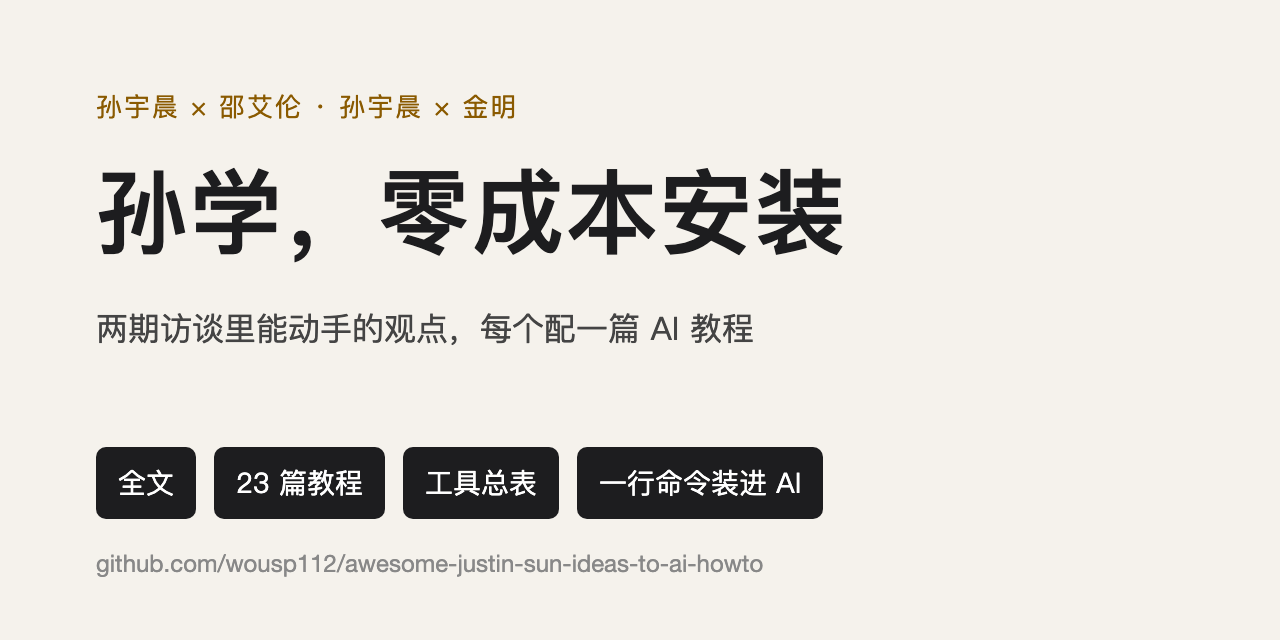
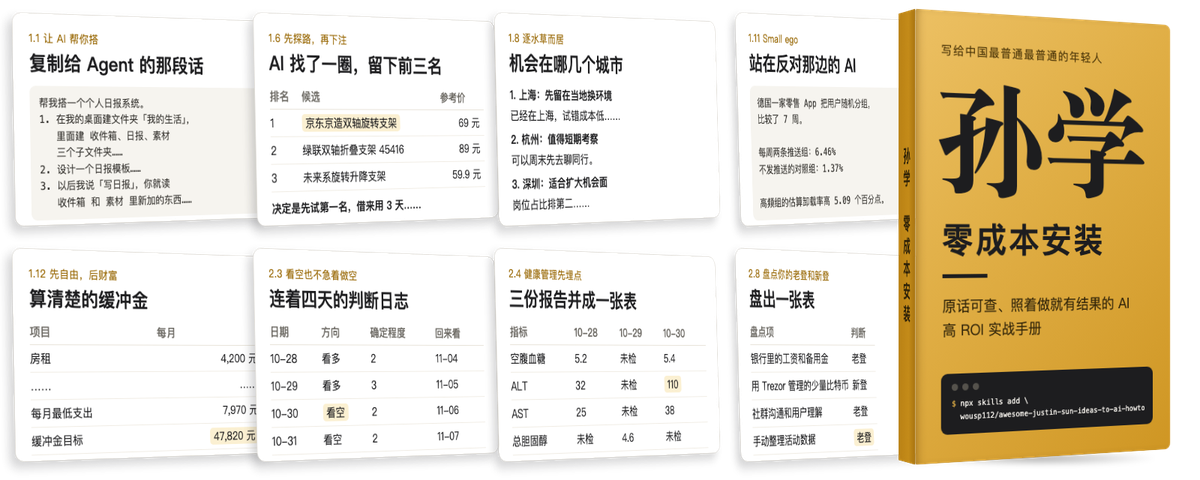
首页、章封面和思维导图换图，主题改成孙学本身
- 头图换成透明底：左边是教程里的真实结果，右边是书的封面，加深色版
- 书名换回打字标题，浅色和深色各一个金色，按钮同色并重新居中
- 两张效果图加深色版，第一张加上随手记原文
- 三张章封面换成清晰的大号章号
- 首页、前言、思维导图和给 AI 的说明开头先讲孙学，两期访谈是原话出处
- 思维导图中心改成孙学，重新出图并加深色版
- 图上不再写教程篇数，修英文版按钮切字

diff --git a/README.md b/README.md
@@ -1,11 +1,11 @@
 <p align="center">
   <a href="前言.md">
-    <img src="assets/cover.png" width="600" alt="孙学，零成本安装"></a>
+    <picture><source media="(prefers-color-scheme: dark)" srcset="assets/cover_dark.png"><img src="assets/cover.png" width="600" alt="孙学，零成本安装"></picture></a>
 </p>
 
-<h1 align="center">孙学，零成本安装</h1>
-
 <p align="center">
+  <picture><source media="(prefers-color-scheme: dark)" srcset="https://readme-typing-svg.demolab.com?font=Noto+Sans+SC&weight=500&size=26&duration=3500&pause=2000&color=E0AE45&center=true&vCenter=true&random=false&width=380&height=60&lines=%E5%AD%99%E5%AD%A6%EF%BC%8C%E9%9B%B6%E6%88%90%E6%9C%AC%E5%AE%89%E8%A3%85"><img src="https://readme-typing-svg.demolab.com?font=Noto+Sans+SC&weight=500&size=26&duration=3500&pause=2000&color=B07A10&center=true&vCenter=true&random=false&width=380&height=60&lines=%E5%AD%99%E5%AD%A6%EF%BC%8C%E9%9B%B6%E6%88%90%E6%9C%AC%E5%AE%89%E8%A3%85" alt="孙学，零成本安装" /></picture>
+  </br>
   原话可查、照着做就有结果的 AI 高 ROI 实战手册
 </p>
 
@@ -17,8 +17,8 @@
 </p>
 
 <p align="center">
-  <a href="邵艾伦/guides/01-生活AI化.md"><img src="assets/demo1.png" width="395" alt="生活 AI 化示例"></a>
-  <a href="邵艾伦/guides/04-百分之百相信AI.md"><img src="assets/demo2.png" width="395" alt="多模型对比示例"></a>
+  <a href="邵艾伦/guides/01-生活AI化.md"><picture><source media="(prefers-color-scheme: dark)" srcset="assets/demo1_dark.png"><img src="assets/demo1.png" width="395" alt="生活 AI 化示例"></picture></a>
+  <a href="邵艾伦/guides/04-百分之百相信AI.md"><picture><source media="(prefers-color-scheme: dark)" srcset="assets/demo2_dark.png"><img src="assets/demo2.png" width="395" alt="多模型对比示例"></picture></a>
 </p>
 
 <p align="center">
@@ -43,7 +43,7 @@
 
 ## 先看这几篇
 
-把孙宇晨两期访谈里能动手的观点，做成 25 篇照着就能跑的 AI 做法。每篇带视频原话时间点、发给 Agent 的提示词和手动步骤，常用工具都在[工具总表](工具总表.md)标了实测价和国内能不能直接用。
+孙学是孙宇晨自己的一套理论，他的说法是给大脑升级操作系统。这里把孙学里能动手的观点，做成 25 篇照着就能跑的 AI 做法。每篇带视频原话时间点、发给 Agent 的提示词和手动步骤，常用工具都在[工具总表](工具总表.md)标了实测价和国内能不能直接用。
 
 | 想做什么 | 直达 | 你会拿到 |
 | --- | --- | --- |

diff --git a/CHANGELOG.md b/CHANGELOG.md
@@ -2,6 +2,8 @@
 
 ## 2026-11-24（晚上）
 
+- 首页和三张章封面换图：头图换成透明底，左边是教程里跑出来的真实结果，右边是书的封面。头图、书名和两张效果图都有深色版，深色模式下不再是几块浅色板。书名改回打字标题，换成金色，两个按钮同色，按钮里的图标和字重新居中。第一张效果图加上了随手记原文，能看出从哪几句话变成日报。章封面原来是放大后发糊的截图，换成清晰的新封面。图上不再写教程篇数。英文版「Start reading」按钮字被切掉的问题一并修了。
+- 首页和前言开头改成先讲孙学：孙学是什么用孙宇晨自己的话交代，两期访谈是原话的出处。书的封面上不再把两期访谈放在署名的位置，换成他的原话「写给中国最普通最普通的年轻人」。前言封面的副标题也从「两期访谈里」改成「孙学里」。思维导图的中心也从「孙宇晨两期访谈」换成「孙学」，重新出了图，配色跟着全套图走，加了深色版。给 AI 的说明第一句同步改了。
 - 首页和前言精修一轮：去掉暗黑模式下看不清的打字机标题 SVG，首页直接放出「先看这几篇」高 ROI 直达表（1.16 跨境差价、1.17 免费算力、工具总表等）和一行装进 Agent 命令，加上我的 X 入口，同步修正前言与英文版 README 的 17 节数量和核实日期。
 - 1.16 按审稿意见校对一轮：补全 11 月 21 日开通与后续扣款时间线，统一产品名和按月计费周期，删掉模板开头、段尾空话和个人分流排错，重排「让 AI 帮你搭」和「一步步来」的跨区与多渠道排查法，补上 google-one-tools 仓库链接和工具表条目。
 - 小结和工具总表同步对齐：小结改准 Ultra 前三个月首期价与回原价表述，工具总表补齐满三月总价、回原价说明以及 google-one-tools 一行。

diff --git a/README.en.md b/README.en.md
@@ -1,19 +1,19 @@
 <p align="center">
   <a href="前言.md">
-    <img src="assets/cover.png" width="600" alt="Sun Xue, Zero-Cost Install"></a>
+    <picture><source media="(prefers-color-scheme: dark)" srcset="assets/cover_dark.png"><img src="assets/cover.png" width="600" alt="Sun Xue, Zero-Cost Install"></picture></a>
 </p>
 
-<h1 align="center">Sun Xue, Zero-Cost Install</h1>
-
 <p align="center">
+  <picture><source media="(prefers-color-scheme: dark)" srcset="https://readme-typing-svg.demolab.com?font=Noto+Sans+SC&weight=500&size=26&duration=3500&pause=2000&color=E0AE45&center=true&vCenter=true&random=false&width=460&height=60&lines=Sun+Xue%2C+Zero-Cost+Install"><img src="https://readme-typing-svg.demolab.com?font=Noto+Sans+SC&weight=500&size=26&duration=3500&pause=2000&color=B07A10&center=true&vCenter=true&random=false&width=460&height=60&lines=Sun+Xue%2C+Zero-Cost+Install" alt="Sun Xue, Zero-Cost Install" /></picture>
+  </br>
   High-ROI AI how-tos built on Justin Sun's own words, with source timestamps and practical results
 </p>
 
 <p align="center">
   <a href="前言.md">
-    <img src="assets/btn_read_en.svg" height="45" alt="Start Reading"></a>
+    <img src="assets/btn_read_en.svg" height="45" alt="Start reading"></a>
   <a href="前言.md#装进-agent">
-    <img src="assets/btn_agent_en.svg" height="45" alt="Install to Agent"></a>
+    <img src="assets/btn_agent_en.svg" height="45" alt="Install skill"></a>
 </p>
 
 <p align="center">

diff --git a/前言.md b/前言.md
@@ -1,7 +1,7 @@
 # 前言
 
 <p align="center">
-  <img src="assets/covers/preface.jpg" width="360">
+  <img src="assets/covers/preface.jpg" width="360" alt="前言">
 </p>
 
 > 孙学最合适的一点就是零成本安装……就跟 AI 一样，这个 skill 就直接蒸馏。
@@ -10,7 +10,7 @@
 
 ## 关于本书
 
-本项目旨在把孙宇晨两期访谈里能动手的观点，做成一本照着就能做的 AI 高 ROI 实战教程。更多实时更新和资源在我的 X：[@qi9098](https://x.com/qi9098)。
+本项目旨在把孙学里能动手的观点，做成一本照着就能做的 AI 高 ROI 实战教程。更多实时更新和资源在我的 X：[@qi9098](https://x.com/qi9098)。
 
 - 两期访谈都转成了带时间戳的全文，每个观点都能点回视频里的原话。
 - 每篇教程配一段写给 AI 的话，复制给 Agent 它就照着做，也有一步步的手动做法。
@@ -32,7 +32,7 @@
 - 邵艾伦那期：4 小时 22 分钟，聊年轻人怎么用 AI 抓住机会，17 节。
 - 金明那期：47 分钟，聊 AI 时代钱往哪放，8 节。
 
-![孙宇晨两期访谈思维导图](思维导图.png)
+<picture><source media="(prefers-color-scheme: dark)" srcset="思维导图_dark.png"><img src="思维导图.png" alt="孙学思维导图"></picture>
 
 ## 如何使用本书
 

diff --git a/思维导图.md b/思维导图.md
@@ -1,10 +1,10 @@
 # 思维导图
 
-孙宇晨两期访谈的观点，一张图看完。点进 [邵艾伦那期](邵艾伦/精华.md) 和 [金明那期](金明/精华.md) 能看到每个观点的原话和时间点。想要图片版，打开 [思维导图.png](思维导图.png)。
+孙学的观点，一张图看完。点进 [邵艾伦那期](邵艾伦/精华.md) 和 [金明那期](金明/精华.md) 能看到每个观点的原话和时间点。想要图片版，打开 [思维导图.png](思维导图.png)。
 
 ```mermaid
 mindmap
-  root((孙宇晨两期访谈))
+  root((孙学))
     邵艾伦那期 4 小时
       用 AI 过日子
         把生活 AI 化

diff --git a/AGENT.md b/AGENT.md
@@ -1,6 +1,6 @@
 # 给 AI 的说明
 
-你是用户的职业和机会规划顾问。下面是孙宇晨两期访谈的核心观点，一期主持人是邵艾伦，一期主持人是金明。用这些观点，帮用户解决他接下来提的问题。
+你是用户的职业和机会规划顾问。下面是孙学的核心观点，来自孙宇晨的两期访谈，一期主持人是邵艾伦，一期主持人是金明。用这些观点，帮用户解决他接下来提的问题。
 
 用户没提问题，就先问一句：「你现在想解决什么？每周能投入多少时间和钱？」
 

diff --git a/邵艾伦/README.md b/邵艾伦/README.md
@@ -1,7 +1,7 @@
 # 第 1 章　邵艾伦那期
 
 <p align="center">
-  <img src="../assets/covers/chapter_shao.jpg" width="360">
+  <img src="../assets/covers/chapter_shao.jpg" width="360" alt="第 1 章 邵艾伦那期">
 </p>
 
 > 简而言之就是孙学、薄肌、黄毛，三个都具备，我觉得就可以开工了。

diff --git a/金明/README.md b/金明/README.md
@@ -1,7 +1,7 @@
 # 第 2 章　金明那期
 
 <p align="center">
-  <img src="../assets/covers/chapter_jin.jpg" width="360">
+  <img src="../assets/covers/chapter_jin.jpg" width="360" alt="第 2 章 金明那期">
 </p>
 
 > 我最缺对于 AI 的理解和应用……这个还是我们这个时代最稀缺的东西。
